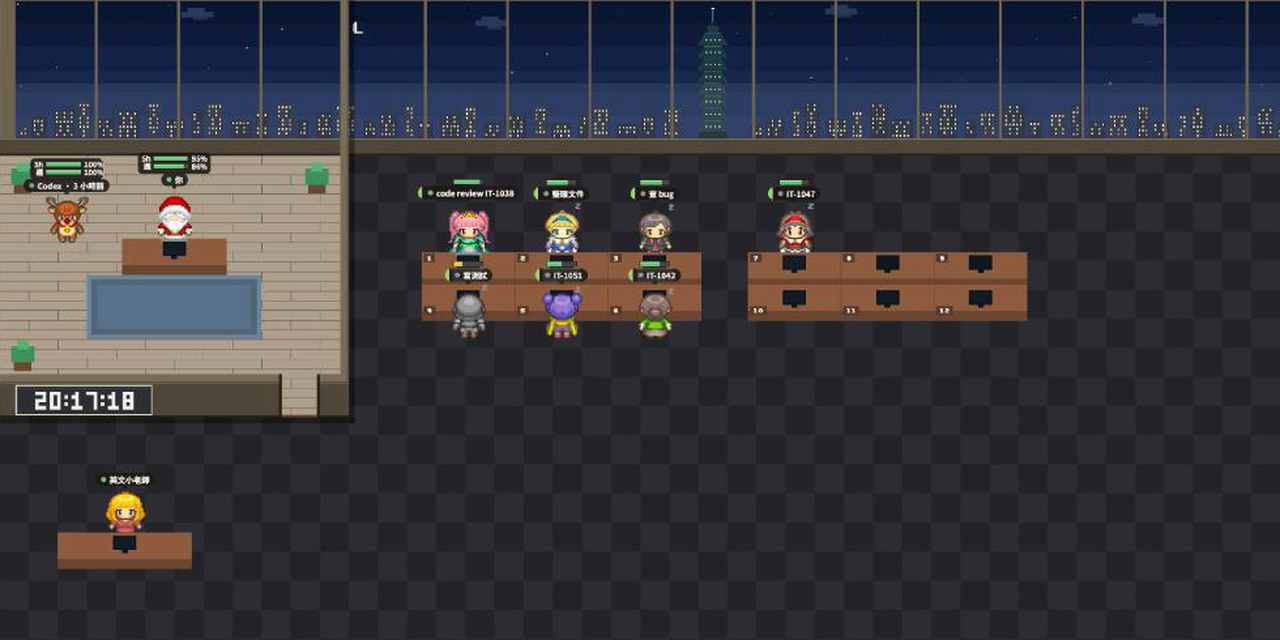
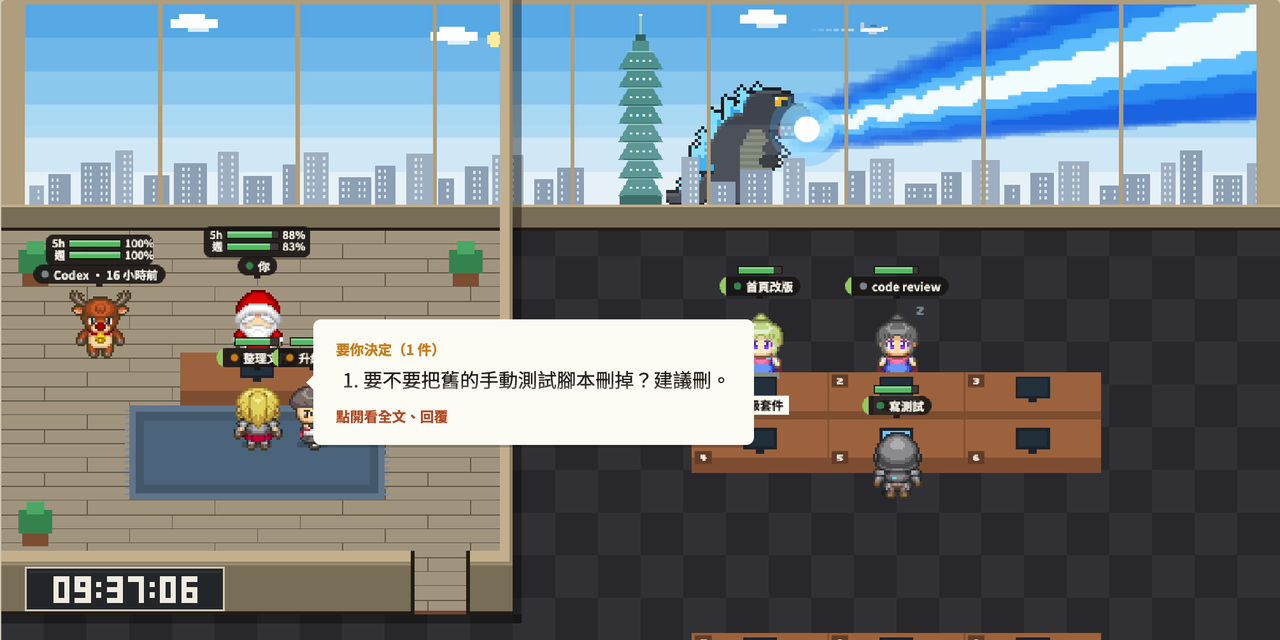
docs: demo desk names no longer look like work ticket keys
The #demo names copied the IT-1042 style of the author's work tracker, so the
README GIF and the social preview still pointed at a real workplace. The names
are now plain tasks; both images are re-shot from #kaiju-demo.

diff --git a/page/session-office.html b/page/session-office.html
@@ -2336,7 +2336,7 @@
   // #demo (screenshots, the README's GIF): every desk keeps its state and motion but
   // shows made-up names and words, so nothing from the real sessions is on the picture.
   const DEMO = location.hash.includes('demo');
-  const DEMO_NAMES = ['IT-1042', 'code review IT-1038', '寫測試', 'IT-1051', '整理文件', '查 bug', 'IT-1047', '重構 API'];
+  const DEMO_NAMES = ['首頁改版', 'code review', '寫測試', '升級套件', '整理文件', '查 bug', '加深色模式', '重構 API'];
   function demoScrub(d, i) {
     if (!DEMO) return d;
     const name = DEMO_NAMES[i % DEMO_NAMES.length];
